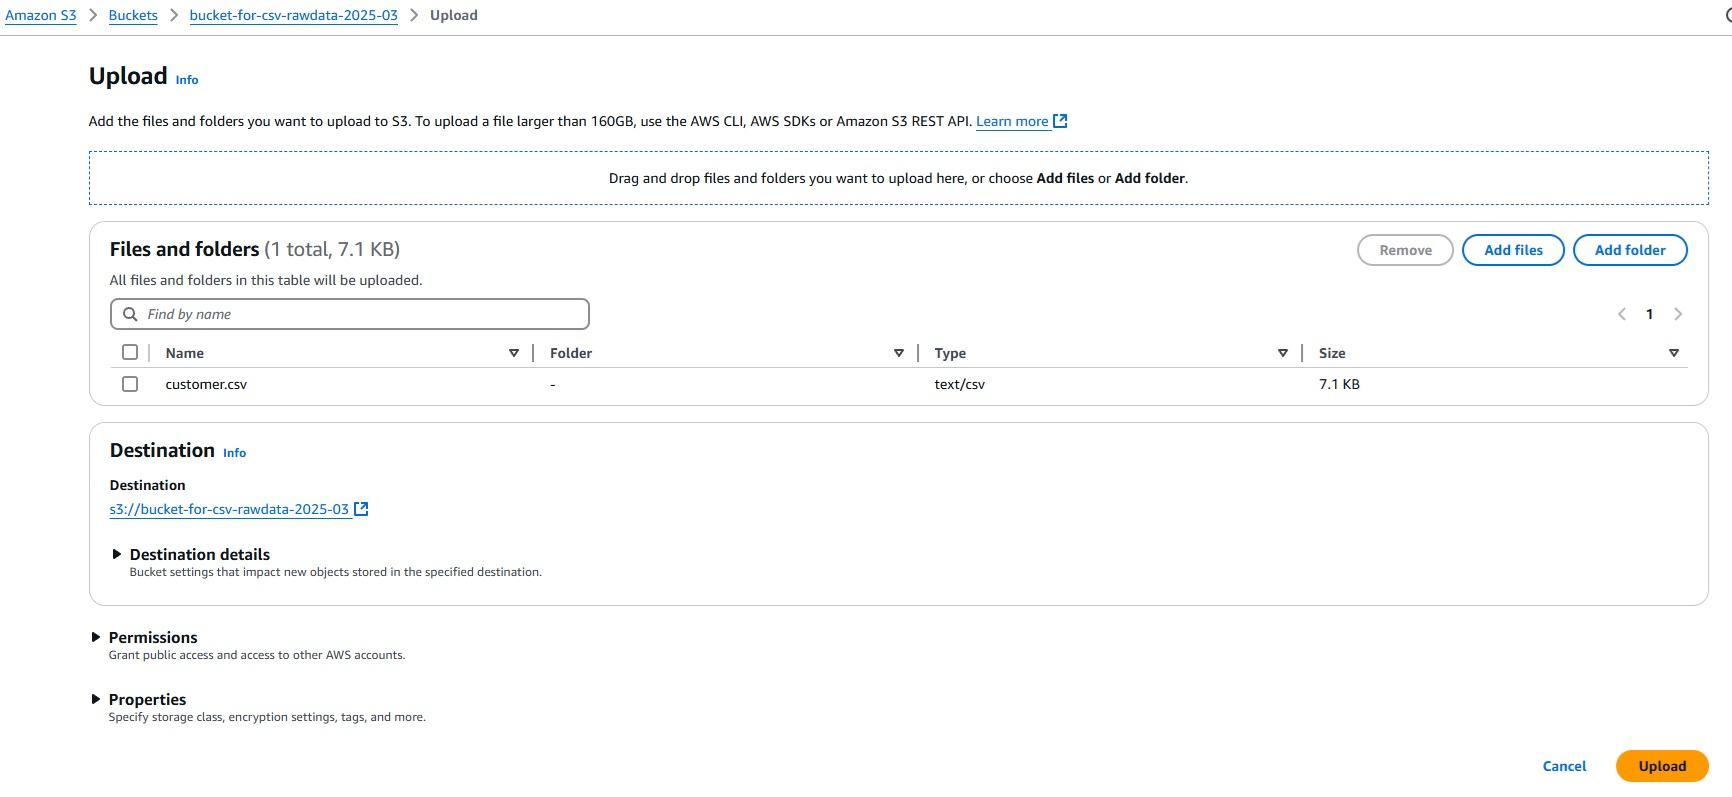
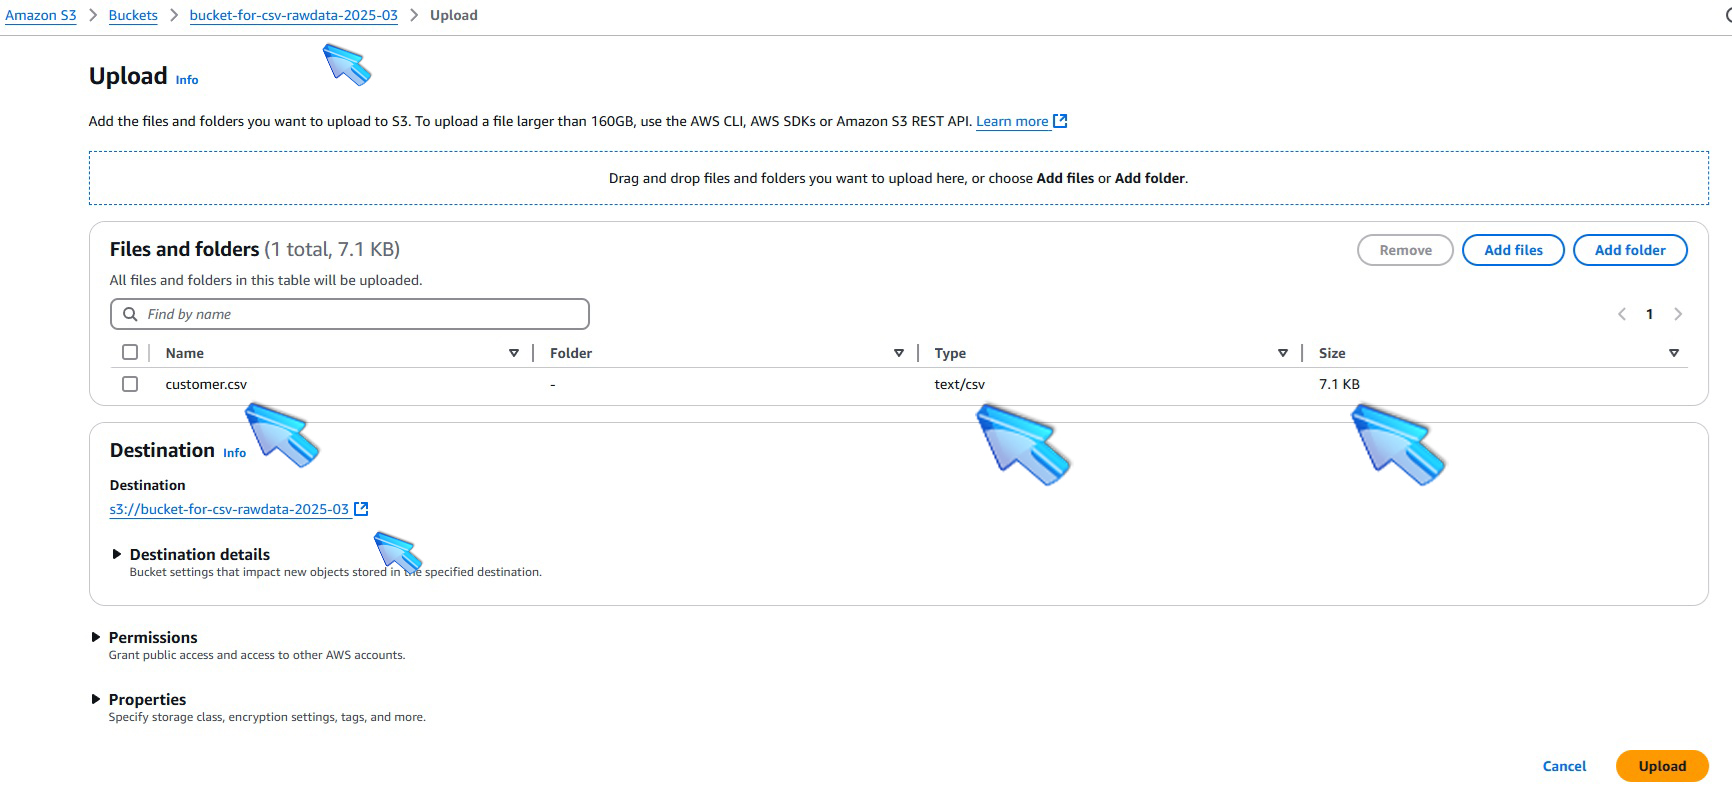
Update S3 upload documentation with new image and additional instructions

diff --git a/thisisthelab.md b/thisisthelab.md
@@ -77,10 +77,12 @@
 
 ###### ![Brazil](https://github.com/Acheroniano/flag-icon/blob/master/png/16/country-4x3/br.png "Brazil") 
 ##### ** Clique no botão upload para escolher o arquivo [![Files badge](https://img.shields.io/badge/customer.csv-%23000000?logo=Files&logoColor=yellow&labelColor=blue)](https://github.com/Acheroniano/aws-glue-crawlers-deepseek/blob/main/customer.csv) **
+##### - depois que escolher o arquivo, algumas informações relevantes sobre ele aparecem na tela.
 
 ###### ![United States](https://github.com/Acheroniano/flag-icon/blob/master/png/16/country-4x3/us.png "United States") 
 ##### ** Click on upload button to choose the file [![Files badge](https://img.shields.io/badge/customer.csv-%23000000?logo=Files&logoColor=yellow&labelColor=blue)](https://github.com/Acheroniano/aws-glue-crawlers-deepseek/blob/main/customer.csv) **
+##### - after choosing the file, some relevant information appears on the screen.
 
 ![S3 Upload customer.csv](./images/5a-S3RawDataUpload.jpg)
-
+![S3 Upload customer.csv info](./images/6a-S3CustomerCSV.jpg)
 
